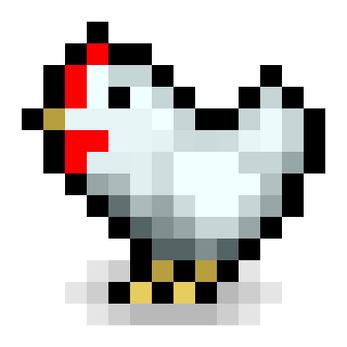
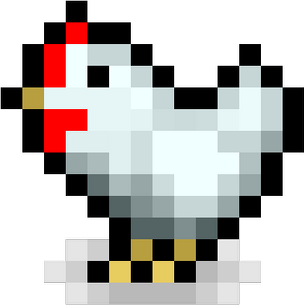
testing different turret images

diff --git a/main.py b/main.py
@@ -29,7 +29,7 @@ placing_turrets = False
 # map
 map_image = pg.image.load('levels/level0/simplified/Level_0/tiles.png').convert_alpha()
 # turret
-cursor_turret = pg.transform.scale_by(pg.image.load('assets/images/turrets/chicken1.png'), 0.15)
+cursor_turret = pg.transform.scale_by(pg.image.load('assets/images/turrets/chicken1_edited.png'), 0.25)
 # enemies
 enemy_image = pg.transform.scale_by(pg.image.load('assets/images/enemies/enemy_2.png').convert_alpha(), 0.15)
 # shop buttons
